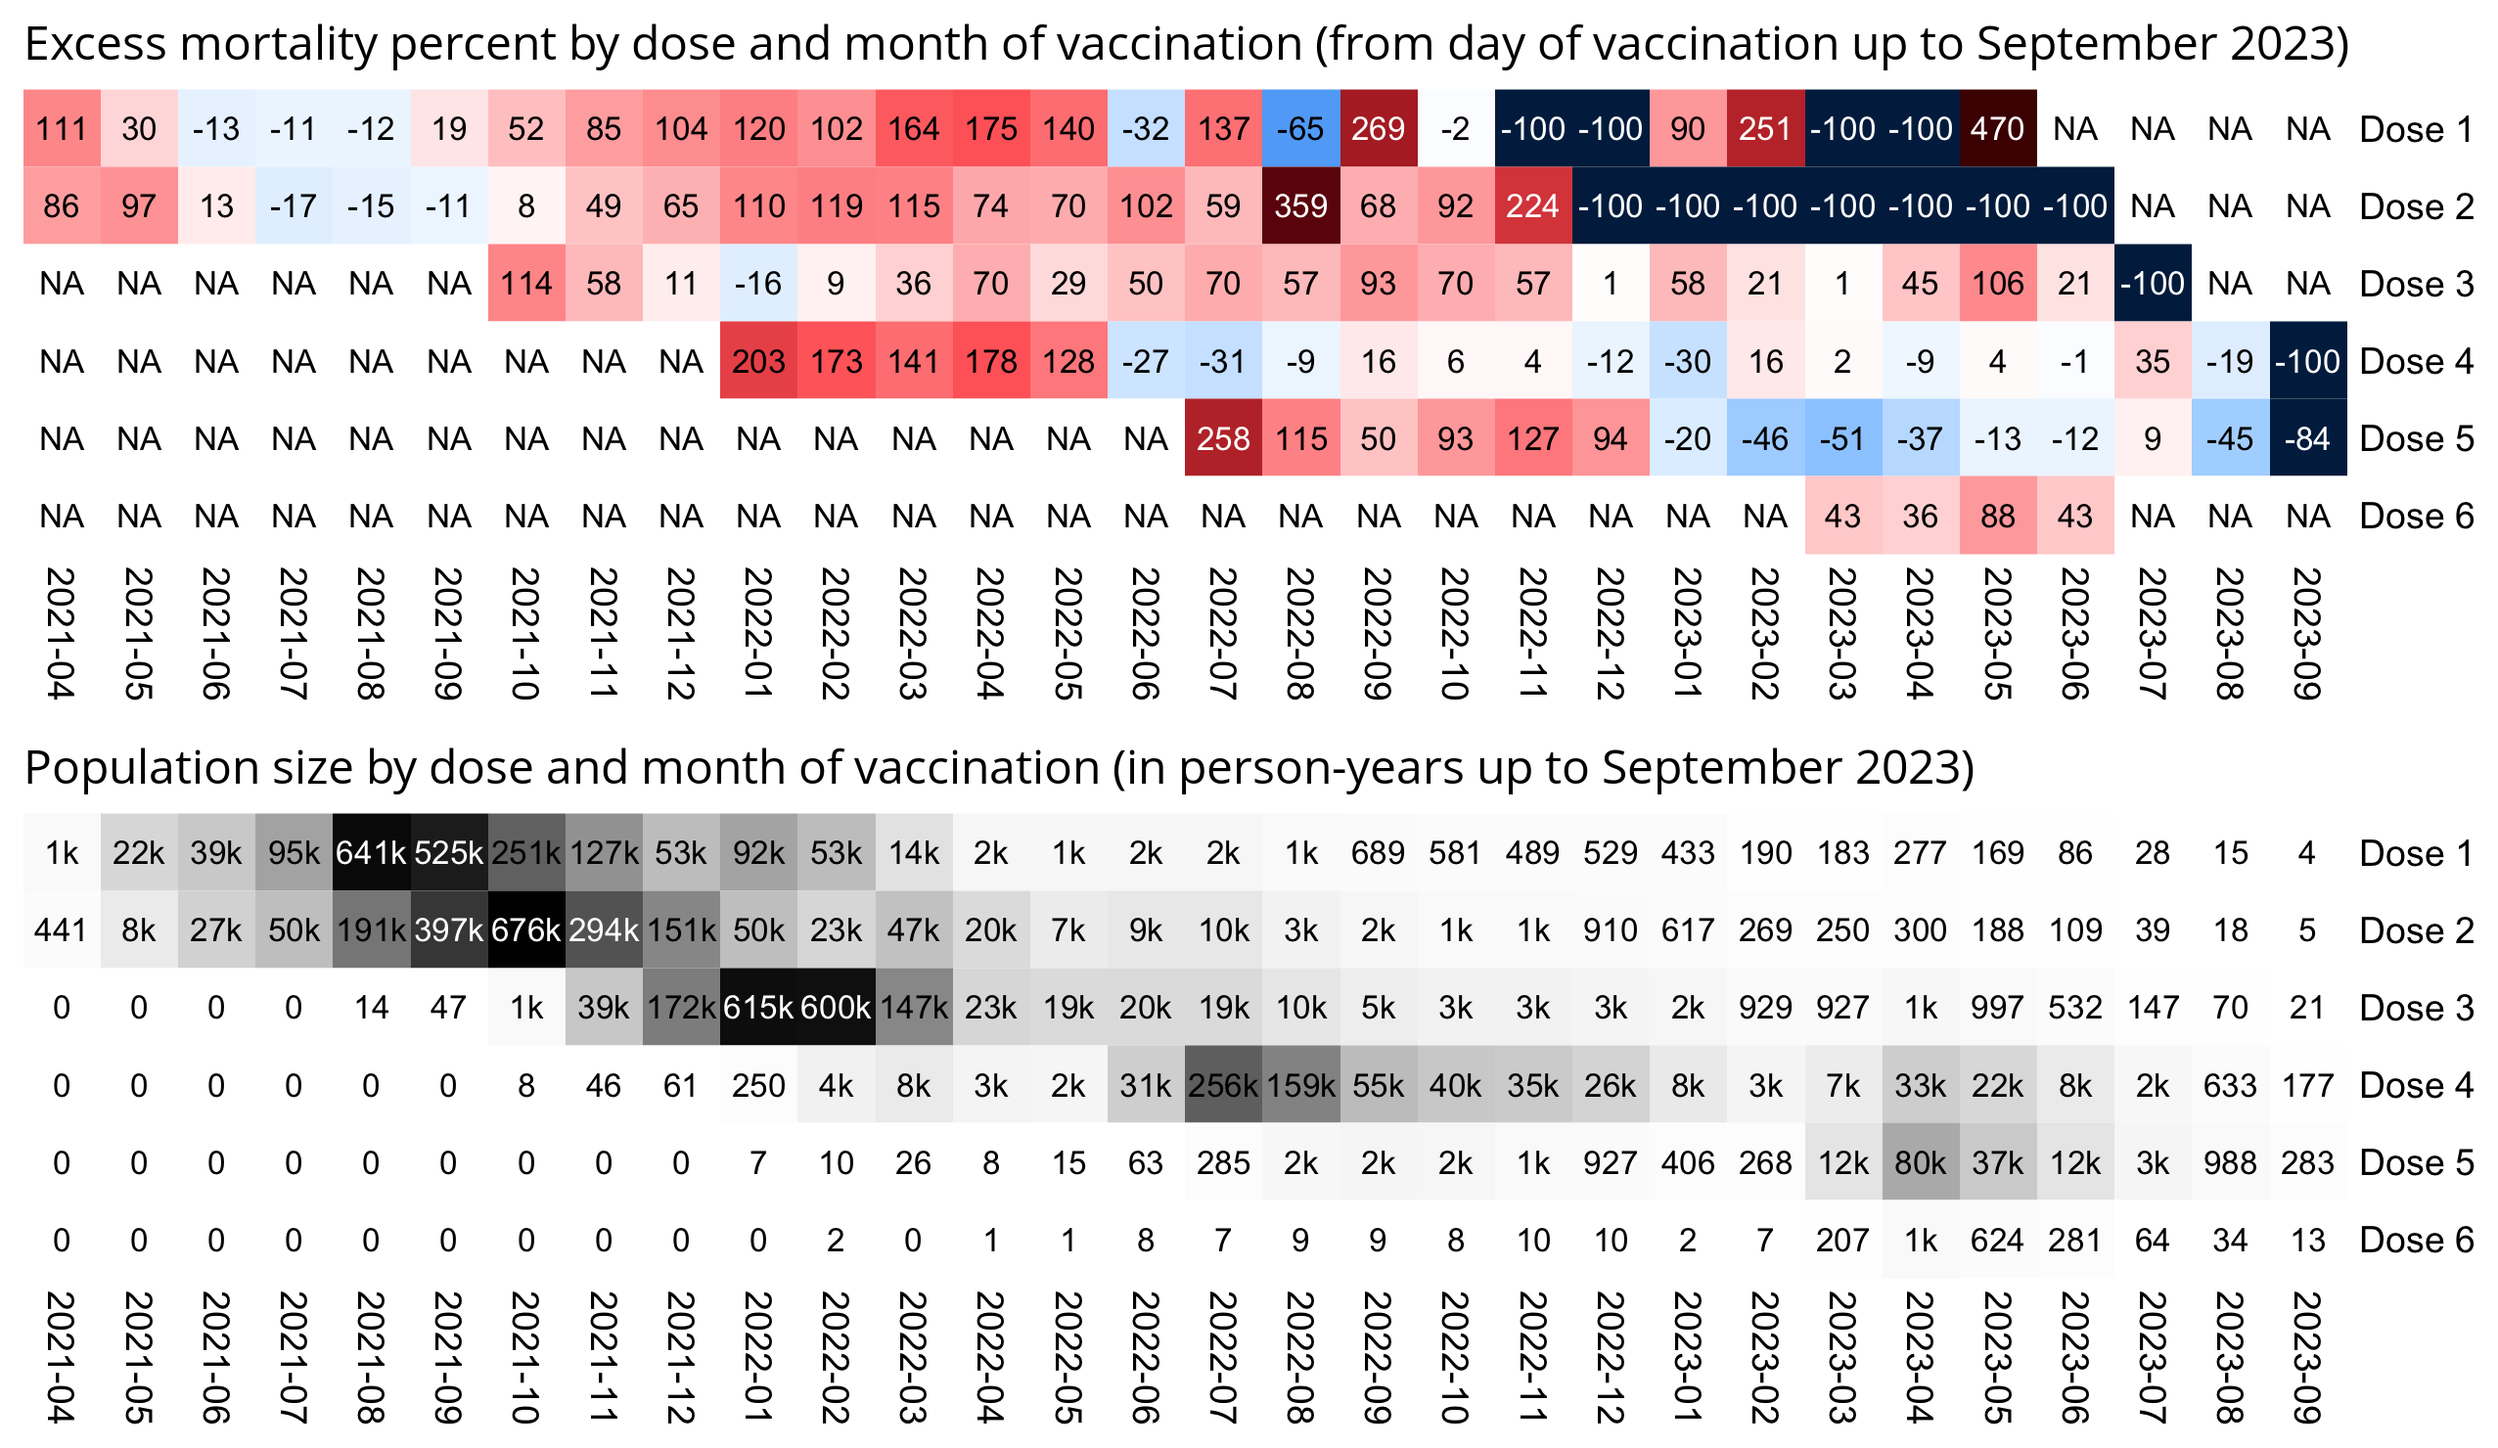
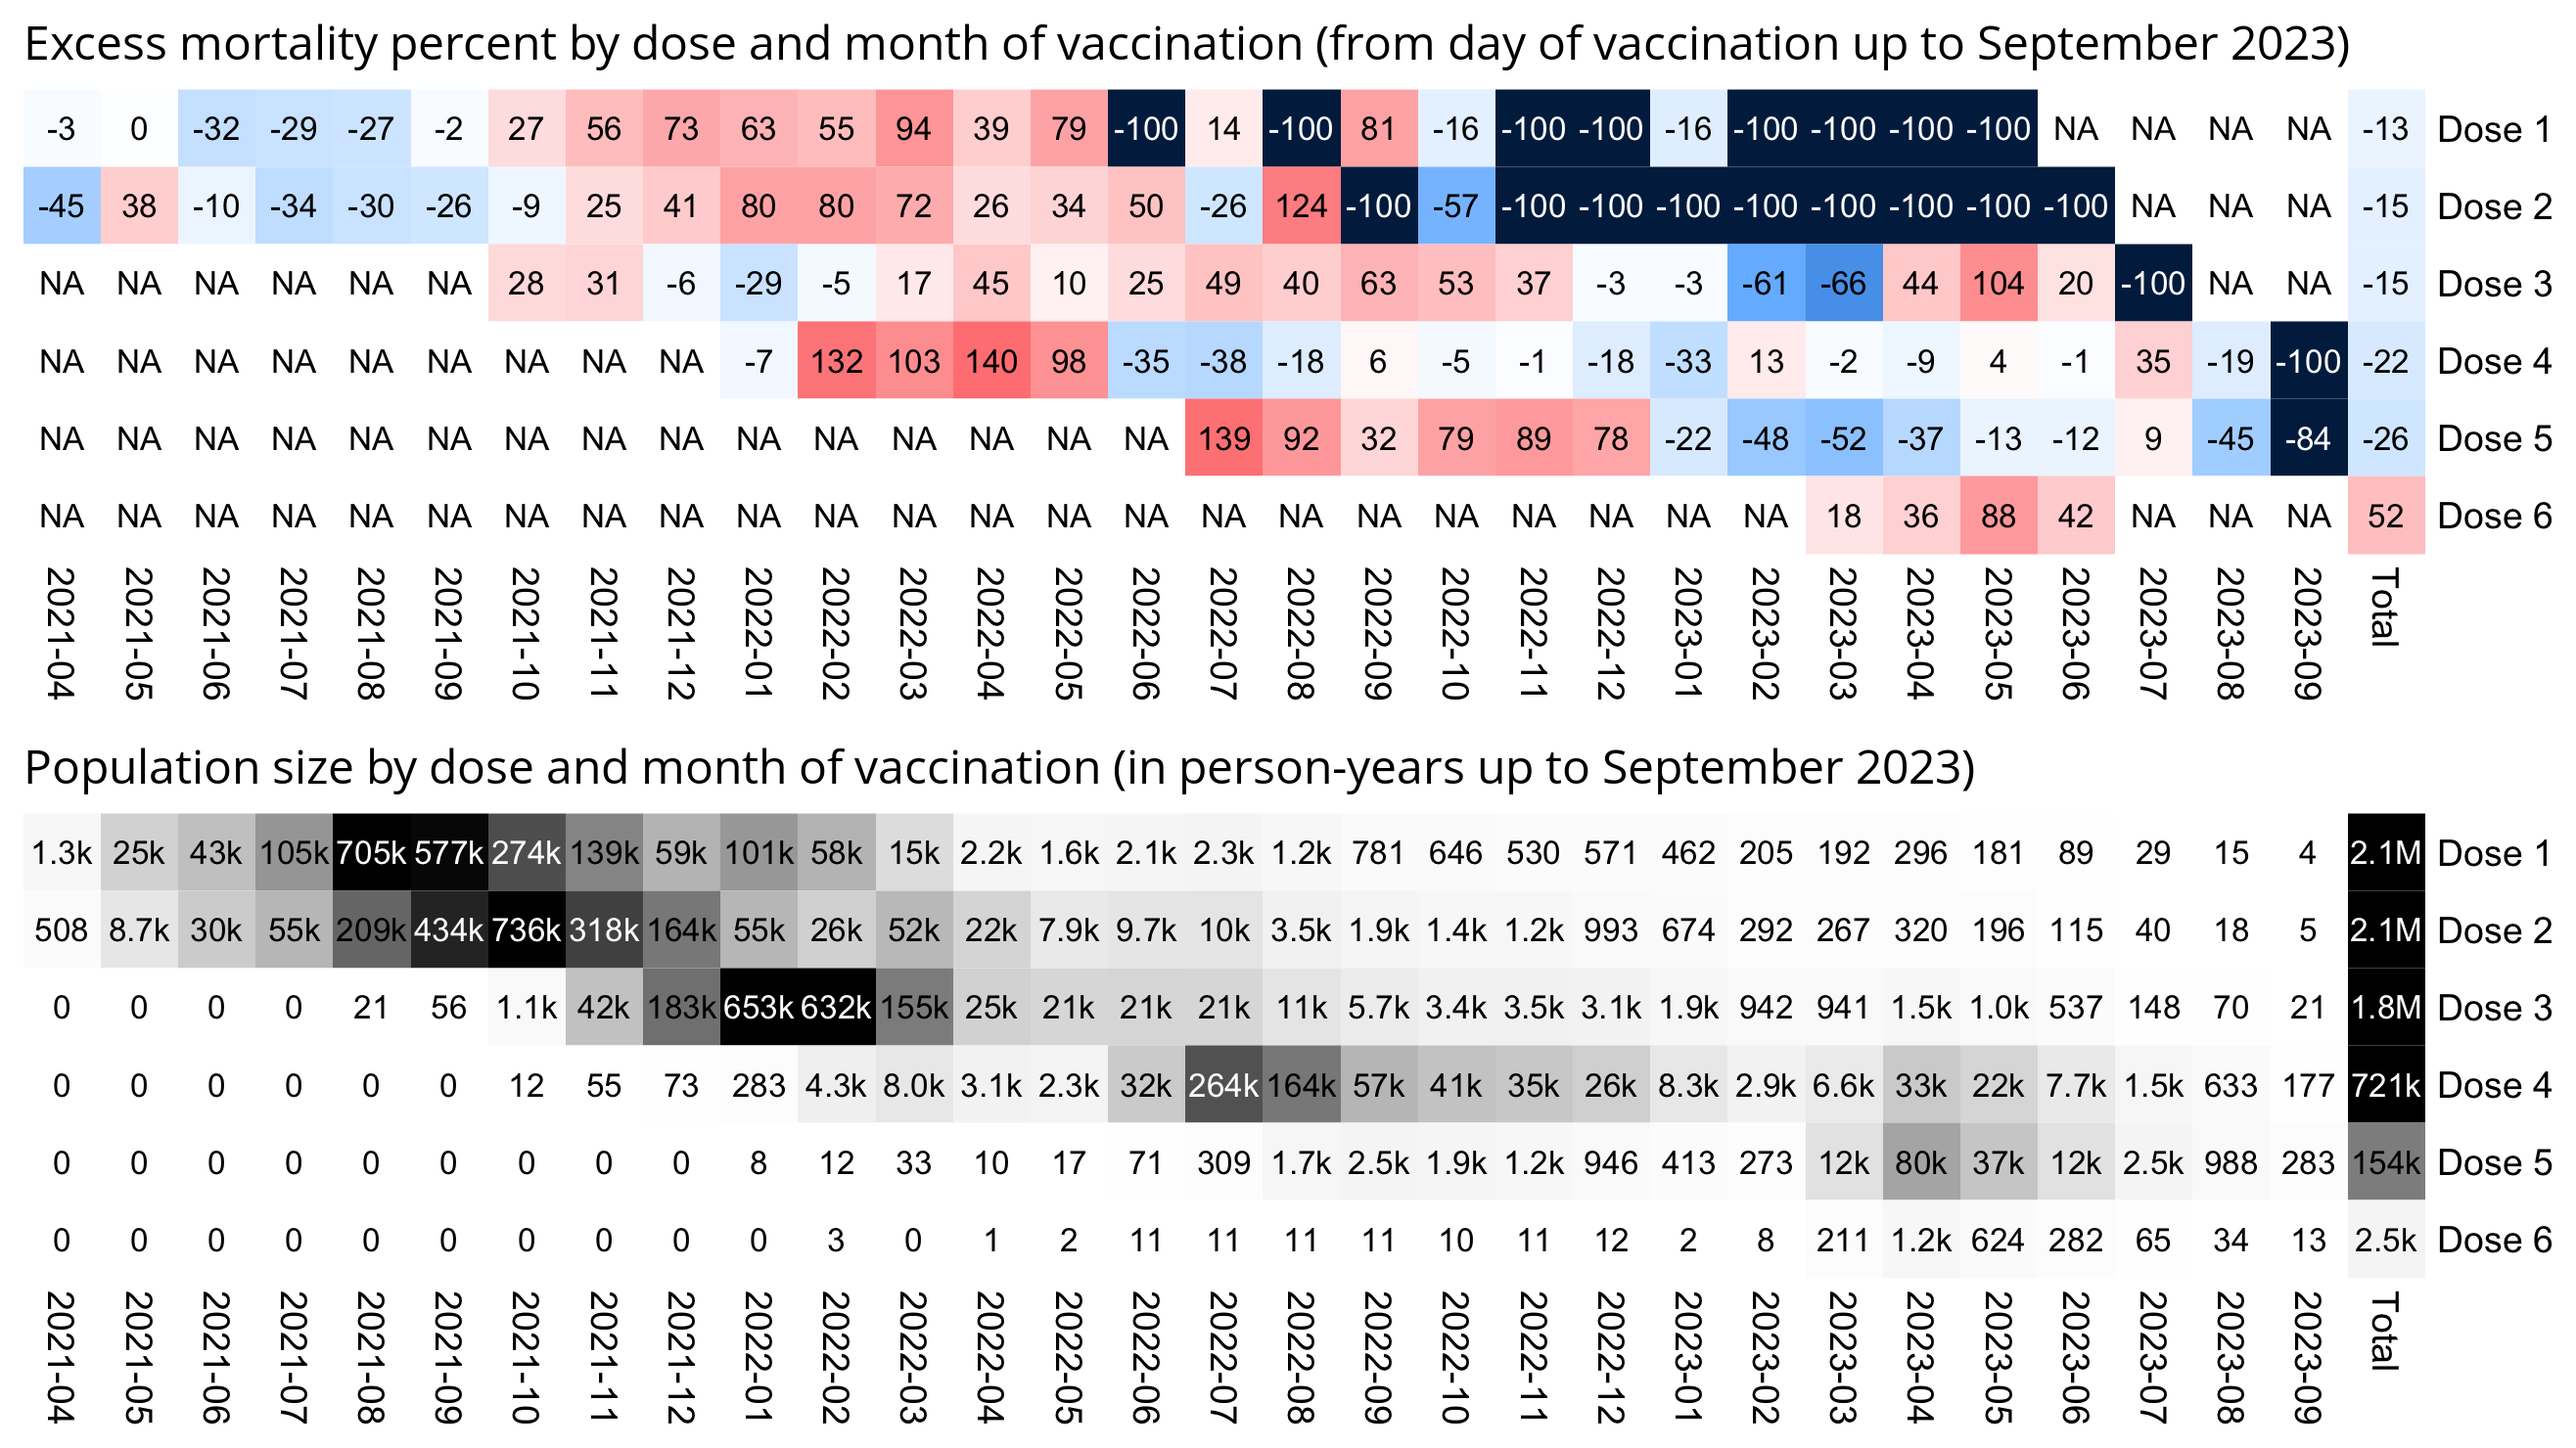
a

diff --git a/moar.html b/moar.html
@@ -540,8 +540,8 @@ t=t[t$dose_number&lt;=4,]
 doses=table(t$dose_number)
 t=t[t$date_of_death-t$date_time_of_service&lt;weeks*7,]
 
-## t=t[rev(order(t$date_time_of_service)),]
-## t=t[!duplicated(t$mrn),]
+# t=t[rev(order(t$date_time_of_service)),]
+# t=t[!duplicated(t$mrn),]
 
 t=t[!is.na(t$date_of_death),]
 
@@ -1844,10 +1844,129 @@ pheatmap::pheatmap(
   number_color=ifelse(!(is.na(m2))&amp;m2&gt;maxcolor2*.5,&quot;white&quot;,&quot;black&quot;),
   sapply(seq(1,0,,256),\(i)rgb(i,i,i))
 )</pre>
-<p>The image below also shows that among people who received a dose during a month when a large number of other people received the same dose, the mortality rate was generally low or even negative. I looked at mortality rate up to September 2023, because the dataset is missing many deaths in October 2023 because of a registration delay:</p>
+<p>The image below also shows that among people who received a dose during a month when a large number of other people received the same dose, excess mortality was generally low or even negative. And the total excess mortality was negative for the first five doses even though it was positive for the sixth dose, but there's only about 7,000 people in the dataset who have received the sixth dose. I looked excess mortality up to September 2023, because the New Zealand dataset is missing many deaths in October 2023 because of a registration delay:</p>
 <div class="width8">
 <img src="i/moar-excess-heat-3.png">
 </div>
+<pre>t=as.data.frame(data.table::fread(&quot;nz-record-level-data-4M-records.csv&quot;,showProgress=F))
+for(i in grep(&quot;date&quot;,colnames(t)))t[,i]=as.Date(t[,i],&quot;%m-%d-%Y&quot;)
+t=t[!(!is.na(t$date_of_death)&amp;t$date_of_death&lt;t$date_time_of_service),]
+
+nzpop=tail(read.csv(&quot;https://mongol-fi.github.io/f/nz_infoshare_population.csv&quot;),2)[,3:96]
+nzdeath=tail(read.csv(&quot;https://mongol-fi.github.io/f/nz_infoshare_deaths.csv&quot;),2)[,3:96]
+cmr=data.frame(x=1:94,y=colMeans(nzdeath)/colMeans(nzpop)*1e5)
+cmr=c(cmr$y,predict(loess(y~x,cmr,control=loess.control(surface=&quot;direct&quot;)),95:120))
+
+dates=as.character(Reduce(\(...)seq(...,by=1),range(t$date_time_of_service,t$date_of_death,na.rm=T)))
+ages=1:120
+age=floor(lubridate::time_length(difftime(t$date_time_of_service,t$date_of_birth),&quot;years&quot;))
+month=format(t$date_time_of_service,&quot;%Y-%m&quot;)
+months=format(seq(as.Date(&quot;2021-4-1&quot;),as.Date(&quot;2023-9-1&quot;),&quot;1 month&quot;),&quot;%Y-%m&quot;)
+enddate=pmin(max(t$date_of_death,na.rm=T),t$date_of_death,na.rm=T)+1
+doses=1:6
+pop=table(factor(as.character(t$date_time_of_service),dates),factor(month,months),factor(age,ages),factor(t$dose,doses))
+
+for(i in 2021:2023){
+  bday=lubridate::&quot;year&lt;-&quot;(t$date_of_birth,i)
+  newage=floor(lubridate::time_length(difftime(bday,t$date_of_birth),&quot;years&quot;))
+  pick=bday&gt;t$date_time_of_service&amp;bday&lt;enddate
+  ta=table(factor(as.character(bday[pick]),dates),factor(month[pick],months),factor(newage[pick],ages),factor(t$dose[pick],doses))
+  pop=pop+ta
+  ta2=ta[,,c(2:120,120),]
+  ta2[,,120,]=0
+  pop=pop-ta2
+}
+
+pick=!is.na(t$date_of_death)
+deadage=factor(floor(lubridate::time_length(difftime(t$date_of_death[pick],t$date_of_birth[pick]),&quot;years&quot;)),ages)
+death=table(factor(as.character(t$date_of_death[pick]),dates),factor(month[pick],months),deadage,factor(t$dose[pick],doses))
+pop=pop-death
+
+d=as.data.frame(pop)|&gt;&quot;colnames&lt;-&quot;(c(&quot;date&quot;,&quot;vaxmonth&quot;,&quot;age&quot;,&quot;dose&quot;,&quot;pop&quot;))
+d$pop=unlist(tapply(d$pop,d[,c(2:4)],cumsum))
+d$death=c(death)
+d$month=factor(format(as.Date(levels(d$date)),&quot;%Y-%m&quot;)[d$date],months)
+
+d=d[d$pop&gt;0,]
+
+ag=aggregate(d[,5:6],d[,c(2,7,3,4)],sum)
+ag2=ag[ag$pop&gt;0,]
+
+mpop=tapply(ag$pop,ag[,c(4,1)],sum)
+mdeath=tapply(ag$death,ag[,c(4,1)],sum)
+baseline=tapply(ag$pop*cmr[ag$age],ag[,c(4,1)],sum)/mpop
+
+mpop=cbind(mpop,Total=rowSums(mpop,na.rm=T))
+mdeath=cbind(mdeath,Total=rowSums(mdeath,na.rm=T))
+baseline=cbind(baseline,Total=tapply(ag$pop*cmr[ag$age],ag$dose,sum,na.rm=T)/tapply(ag$pop,ag$dose,sum,na.rm=T))
+
+crude=mdeath/mpop*1e5*365
+crude[mpop==0]=NA
+
+m=(crude-baseline)/ifelse(crude&gt;=baseline,baseline,crude)*100
+disp=round((crude-baseline)/baseline*100)
+m[mpop==0]=NA
+m[mpop/365&lt;100]=NA
+disp[is.na(m)]=&quot;NA&quot;
+exp=.86
+m=abs(m)^exp*sign(m)
+# maxcolor=max(abs(m[is.finite(m)]),na.rm=T)*.7
+maxcolor=400^exp
+m[is.infinite(m)]=-maxcolor
+rownames(m)=paste0(&quot;Dose &quot;,rownames(m))
+
+pheatmap::pheatmap(
+  m,
+  filename=&quot;1.png&quot;,
+  cluster_rows=F,
+  cluster_cols=F,
+  legend=F,
+  cellwidth=19,
+  cellheight=19,
+  fontsize=9,
+  border_color=NA,
+  display_numbers=disp,
+  fontsize_number=8,
+  na_col=&quot;white&quot;,
+  number_color=ifelse((abs(m)&gt;.6*maxcolor)&amp;!is.na(m),&quot;white&quot;,&quot;black&quot;),
+  breaks=seq(-maxcolor,maxcolor,,256),
+  colorRampPalette(colorspace::hex(colorspace::HSV(c(210,210,210,210,0,0,0,0,0),c(1,.8,.6,.3,0,.3,.6,.8,1),c(.3,.65,1,1,1,1,1,.65,.3))))(256)
+)
+
+exp2=.6
+mpop2=(mpop/365)^exp2
+mpop2[is.na(mpop2)]=0
+rownames(mpop2)=paste0(&quot;Dose &quot;,rownames(mpop2))
+# maxcolor2=max(mpop2,na.rm=T)
+maxcolor2=6e5^exp2
+
+kimi=\(x){e=floor(log10(ifelse(x==0,1,abs(x))));e2=pmax(e,0)%/%3+1;x[]=ifelse(abs(x)&lt;1e3,round(x),paste0(sprintf(paste0(&quot;%.&quot;,ifelse(e%%3==0,1,0),&quot;f&quot;),x/1e3^(e2-1)),c(&quot;&quot;,&quot;k&quot;,&quot;M&quot;,&quot;B&quot;,&quot;T&quot;)[e2]));x}
+
+disp2=mpop
+disp2[!is.na(mpop)]=kimi(mpop[!is.na(mpop)]/365)
+disp2[is.na(mpop)]=0
+
+pheatmap::pheatmap(
+  mpop2,
+  filename=&quot;2.png&quot;,
+  cluster_rows=F,
+  cluster_cols=F,
+  legend=F,
+  cellwidth=19,
+  cellheight=19,
+  fontsize=9,
+  border_color=NA,
+  display_numbers=disp2,
+  fontsize_number=8,
+  na_col=&quot;white&quot;,
+  breaks=seq(0,maxcolor2,,256),
+  number_color=ifelse(mpop2&gt;maxcolor2*.6,&quot;white&quot;,&quot;black&quot;),
+  sapply(seq(1,0,,256),\(i)rgb(i,i,i))
+)
+
+system(&quot;convert -trim 1.png -gravity northwest -splice x14 -size `identify -format %w 1.png`x -pointsize 48 caption:&#39;Excess mortality percent by dose and month of vaccination (from day of vaccination up to September 2023)&#39; +swap -append -trim -bordercolor white -border 24 +repage 1..png&quot;)
+system(&quot;convert -trim 2.png -gravity northwest -splice x14 -size `identify -format %w 2.png`x -pointsize 48 caption:&#39;Population size by dose and month of vaccination (in person-years up to September 2023)&#39; +swap -append -trim -bordercolor white -border 24 +repage 2..png&quot;)
+system(&quot;montage -geometry +0+0 -tile 1x [12]..png 0.png&quot;)</pre>
 <h2>
 <a href=#Excess_mortality_in_New_Zealand id=Excess_mortality_in_New_Zealand>Excess mortality in New Zealand</a>
 </h2>
